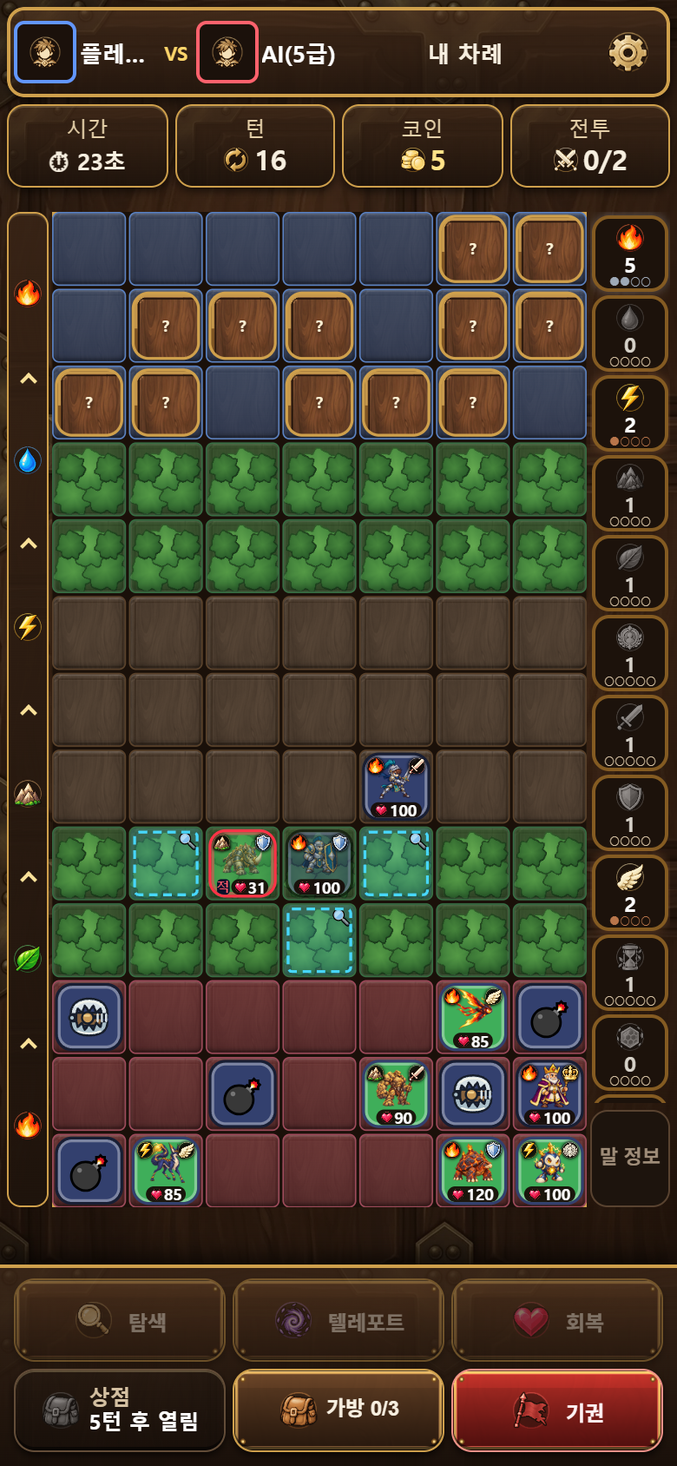
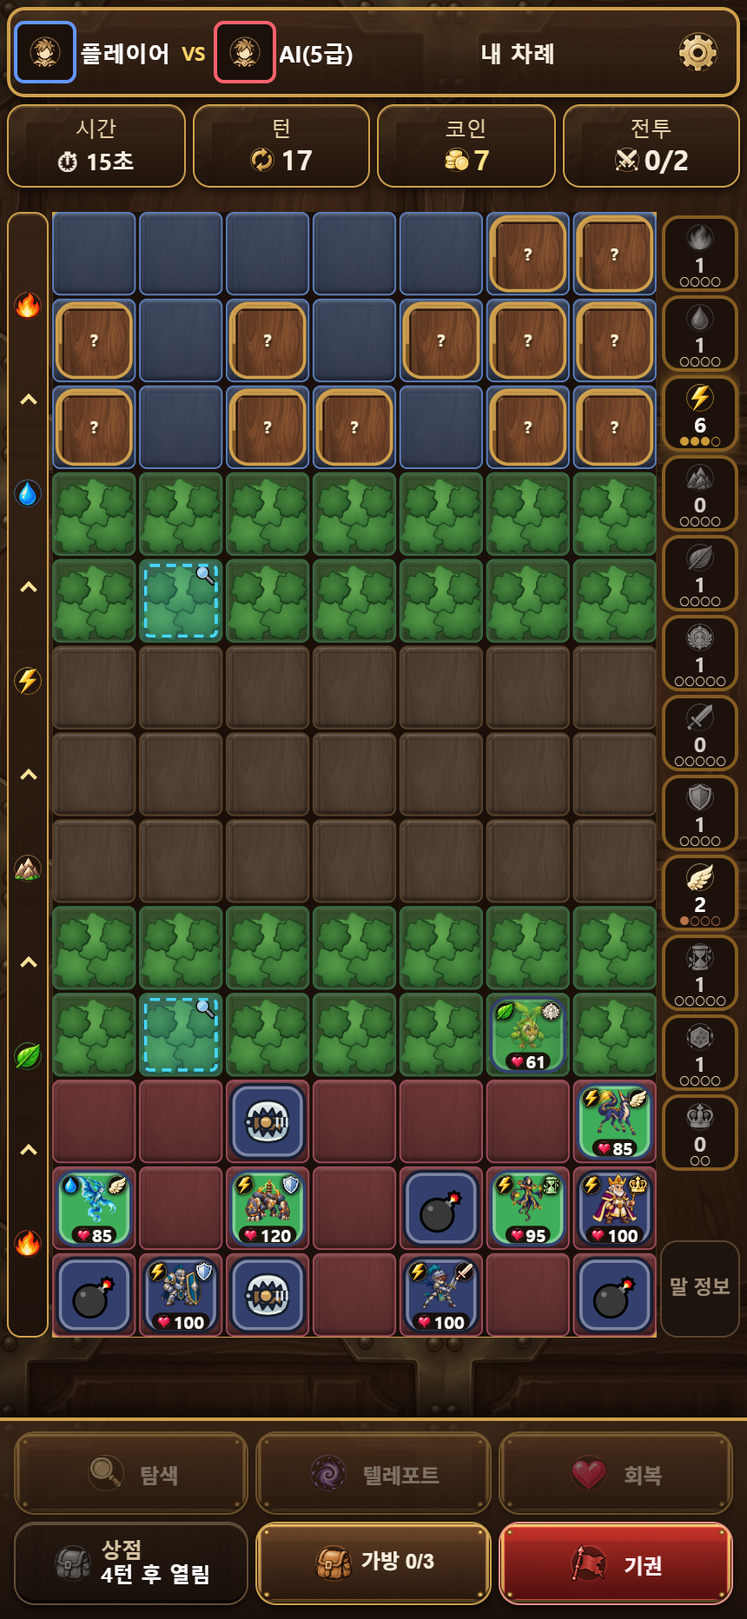
[demo] README 사진 여백·상점·시너지 프레이밍 보완 (#386)
로그인 하단과 보드 시너지 잘림을 native 촬영 범위로 보완한다.
상점은 실제 내용 끝까지 담고 촬영 조건·상태 fixture를 감사 보고에 반영한다.

diff --git a/docs/milestone/v0.4.16/issues/386/Mars/report.md b/docs/milestone/v0.4.16/issues/386/Mars/report.md
@@ -1,77 +1,102 @@
-# #386 v0.4.16 README 플레이 사진 8장 — Mars 촬영 감사 보고
+# #386 v0.4.16 README 플레이 사진 8장 — Mars 촬영·구도 보완 감사 보고
 
-- 작업: task_939638aaaef9 / ctx_a1dd55003b4d · 2026-10-28 (KST)
-- 실행: Mars, Claude Code `claude-opus-5-5` · effort high · `--dangerously-skip-permissions` (argv 실측, PID 33548) · Ponytail full. 코디네이터 GO 수신 뒤 촬영.
-- 범위: 현재 UI 실제 브라우저 캡처 8장과 이 보고서만 작성했다. README 본문, Git 쓰기, GitHub·Notion·Render 쓰기는 하지 않았다. README QA 판정은 하지 않는다.
+- 1차 촬영: task_939638aaaef9 / ctx_a1dd55003b4d · 2026-10-28 (KST). 원문은 artifact `Mars-Report.original.md`와 커밋 `431d9cb`에 보존돼 있다.
+- 구도 보완(이 보고서의 현재 상태): task_93050522f0f0 / ctx_511ec36e01ed · 2026-10-28 (KST). Saturn 구도 REVISE 3건(01 하단 비네트 · 06 시너지 칩 잘림 · 05 가방 슬롯 화면 밖)을 촬영·프레이밍만으로 고쳤다.
+- 실행: Mars, Claude Code `claude-opus-5-5` · effort high · `--dangerously-skip-permissions` (argv 실측, PID 32924) · Ponytail full. 코디네이터 GO 수신 뒤 촬영했다. fixture 2건(아래 3절)은 코디네이터 응답(`Q1A Q2A`)과 05/07 짝 높이 선택(`A`)을 받은 뒤 진행했다.
+- 범위: PNG 6장(01·02·05·06·07·08)과 이 보고서만 바꿨다. 03·04 PNG, README 본문, milestone README, 제품 demo/server/tools/test/config/자산/CSS/DOM, 검증 도구, Git, GitHub·Notion·Render는 건드리지 않았다. README QA 판정은 하지 않는다.
 
 ## 1. 결과물
 
-8장 모두 390×844 CSS · DPR 2 전체 뷰포트(잘라내기 없음)라서 출력은 모두 780×1688 px이다. README의 네 쌍은 높이가 같다.
+사진마다 해상도가 다르다. README는 두 칸 표에서 같은 너비로 보여 주므로 표시 높이는 가로세로 비율이 정한다.
 
-| README 위치 | 파일 | px | bytes | SHA-256 |
-|---|---|---|---|---|
[8 lines of base64/hex data omitted]
+| README 위치 | 파일 | px | bytes | SHA-256 | 상태 |
+|---|---|---|---|---|---|
[8 lines of base64/hex data omitted]
 
-원본 probe는 `C:/Users/pc_77/orca/artifacts/Digit-Duel/readme-v0416-branch-alignment-20261028/Mars/shots/`에 있다. 납품본은 p01a·p02a·p03b·p04a·p05c·p06a·p07c·p08a를 바이트 그대로 복사했다. 버린 probe: p00(계정 꺼짐 상태 타이틀), p03a(핑 측정 불가), p04a 1차(타이틀로 복귀), p05a·p05b(구매 전·토스트), p06 없음, p07a·p07b(가방 행 잘림·스크롤 정렬 전), p08pre(전투 시작 연출 중).
+**짝 높이**
+
+| 짝 | 크기 | 표시 높이 |
+|---|---|---|
+| 01 로그인 / 02 로비 | 둘 다 780×1308 | 같다 |
+| 03 방 목록 / 04 대기실 | 둘 다 780×1688 (1차 그대로) | 같다 |
+| 06 전략 보드 / 08 속성 전투 | 둘 다 860×1864 | 같다 |
+| 05 시작 상점 / 07 턴 상점 | 780×2908 / 780×2838 | **다르다.** 05가 2.47% 더 길다 |
+
+05/07의 높이 차이는 의도한 선택이다. 두 상점은 실제 스크롤 내용 끝까지 담았다. 합법 상태로는 05 전체 높이가 52 CSS px 단위(1402·1454·1506 …)로만 바뀌어 07의 1419와 같아질 수 없다. 코디네이터가 A안을 골랐다. 실제 상점 내용과 구매 상태를 지키고, 높이를 맞추려고 내용을 자르거나 여백을 붙이지 않는다. 코디네이터에 따르면 `README_RELEASE_STYLE`이 같은 높이를 요구하는 짝은 로그인/로비와 보드/전투이고, 상점 짝의 같은 높이는 PD의 추가 목표였다(Mars가 그 문서를 직접 읽어 확인한 것은 아니다).
+
+원판과 probe는 `C:/Users/pc_77/orca/artifacts/Digit-Duel/readme-v0416-branch-alignment-20261028/Mars-Framing/shots/`에 있다. 납품본은 그 원판을 바이트 그대로 복사했다: 01=`p01-clip654` · 02=`p02-654b` · 05=`p05-full` · 06=`p06-430` · 07=`p07-full` · 08=`p08-430`. 1차 원판(`Mars/shots/`)과 1차 helper는 덮지 않았다.
 
 ## 2. 원본·환경
 
-- 코드: 작업 공간 `doc-386-v0416-readme`, HEAD `a1fa420bbd5b39b7d179233297b9ef78ef0b889b` (`doc/386-v0416-readme`, 세션 시작 시 clean).
-- 페이지: 수정하지 않은 `demo/`. 01~04는 Mars 소유 정적 서버(127.0.0.1 임의 포트, 읽기 전용, `/api/*`=503 `E_ACCOUNTS_DISABLED`, DB 없음)에서, 05~08은 `file:///…/demo/index.html` 오프라인으로 열었다.
-- 브라우저: Google Chrome `Chrome/155.0.8059.85`, headless=new, UA `HeadlessChrome/155.0.0.0`. 격리 프로필(종료 후 삭제), `--hide-scrollbars --force-color-profile=srgb --lang=ko-KR`. CDP Emulation 390×844 · DPR 2 · mobile. Node v24.16.0.
-- 도구(저장소 밖, 새 artifact 폴더만): `driver.js`(v0.4.15 드라이버 + #335 harness의 정적 서버·가짜 WebSocket prelude), `cli.js`(v0.4.15 복사본에서 포트·nav·errors만 변경), `auto.js`·`fight.js`·`bottomcheck.js`(v0.4.15 그대로 복사), `blobcheck.js`(신규). 과거 helper와 `tools/media/readme_media_capture.js`는 수정하지 않았다.
-- 제품 데모 blob(index 기준 앞 12자리): index.html `95614ee79479` · core.js `55b027528c5b` · ui.js `bceabb128c36` · ui-overlays.js `dcd5b357c9c7` · lobby.js `43a4a2404630` · network.js `ff0a878416a5` · account.js `df88316b96bc` · data.js `168f0f759344` · game.css `337acbdee547` · argon.css `34909e2a2d7f` · cohesion-pilot.css `42cbd6a66ac9` · fx.css `3cc2c9415250`.
+- 코드: 작업 공간 `doc-386-v0416-readme`, HEAD `431d9cb8a8257238fc7d24b03088086004a401cf` (시작 시 clean). 제품 runtime·source·자산·설정은 `a1fa420`과 같다(PD 지시 기준).
+- 페이지: 수정하지 않은 `demo/`. 01·02는 Mars 소유 정적 서버(127.0.0.1 임의 포트, 읽기 전용, `/api/*`=503 `E_ACCOUNTS_DISABLED`, DB 없음)에서 열었다. 05~08은 `file:///…/demo/index.html` 오프라인으로 열었다.
+- 브라우저: Google Chrome `Chrome/155.0.8059.85`, headless=new, UA `HeadlessChrome/155.0.0.0`. 격리 프로필(종료 후 삭제), `--hide-scrollbars --force-color-profile=srgb --lang=ko-KR`. CDP Emulation · DPR 2 · mobile. 뷰포트는 사진마다 아래 표와 같다. Node v24.16.0.
+- 도구: 새 artifact `Mars-Framing/`에만 만들었다. `driver.js`·`cli.js`는 1차 helper 복사본이다. 포트를 9426/9427로 바꾸고 실행 중 뷰포트를 바꾸는 `/vp`를 더했다. `auto.js`는 1차 복사본에 "내 차례마다 이동 전에 보드를 찍는다"를 더했다. `fight.js`·`bottomcheck.js`·`blobcheck.js`는 그대로 복사했다. 측정용 `groups.js`·`tree.js`(읽기 전용)는 새로 만들었다. 1차 `Mars/` helper·로그·원판과 `tools/media/readme_media_capture.js`는 수정하지 않았다.
 
-## 3. 화면별 진입 경로와 fixture 경계
+## 3. 사진별 촬영 방법·범위·fixture
 
-**공통**: 실제 회원 E2E가 아니다. 서버·DB·계정·SMTP를 쓰지 않았고 외부 Production·QA 서버에 접속하지 않았다. 화면에 보이는 닉네임(루나·솔라·노을·하늘·바람·별빛·달빛)·방 이름·전적·핑 수치는 모두 가상 값이다. 이메일·사용자 ID·접속 코드·로그·DevTools·테스트 배지는 화면에 없다. `Math.random`은 고정하지 않았으므로 05~08은 같은 화면으로 재현되지 않는다.
+**공통**: 실제 회원 E2E가 아니다. 서버·DB·계정·SMTP를 쓰지 않았고 외부 Production·QA 서버에 접속하지 않았다. 닉네임 `루나`와 전적은 가상 값이다. 이메일·사용자 ID·접속 코드·로그·DevTools·테스트 배지는 화면에 없다. `Math.random`은 고정하지 않았으므로 05~08의 진열·배치는 1차와 다르다. 모든 상호작용은 CDP 실제 마우스 클릭이다. 아래에 적은 함수 호출과 상태값 하나만 예외다. 캡처는 모두 `Page.captureScreenshot`의 clip(CSS px, DPR 2)이고, 사진 위에 아무것도 합성하거나 덧붙이지 않았다.
 
-| 화면 | 진입 | fixture(제품 함수·프레임만 사용, 제품 파일 무변경) |
-|---|---|---|
-| 01 로그인 | 정적 서버 첫 화면 | DB 없는 서버는 계정 꺼짐(`AUTH.state="off"`)이라 로그인 버튼이 없다. 계정 서비스가 켜진 첫 방문 상태를 `AUTH.state="anon"; render(); acctRender()`로 재현했다. |
-| 02 메인 로비 | `UI.entered=true; render()` | 프로필은 서버 응답 모양을 제품 파서 `lobbyParseProfile({nickname:"루나", representativeMinion:"M-F2", stats:{wins:12,losses:7}, …})`로 만들고 `LOBBY.prof="ok"`. `AUTH.state`는 `anon` 그대로다(로그인 `in`과 다른 점은 프로필 요청 여부뿐이라 그려지는 화면은 같다). |
-| 03 공개 방 목록 | 제품 `lobbyRooms()` | 가짜 WebSocket에 `lobby_ready`·`lobby_rooms`(가상 방 4개 · 접속 9명) 프레임을 넣었다. 핑은 가짜 소켓이 `rtt` 요청에 35 ms 뒤 답하도록 해서 제품이 잰 값(`핑 42ms`)이다. 지연 자체는 합성 값이다. |
-| 04 방 대기실 | 새 페이지(계정 꺼짐) · 제품 `netCreatePublicRoom("초보 환영 한 판")` | 가짜 소켓에 `room_opened`, `room_state`(WAITING · 참가자 준비 완료 · 대표 M-F2/M-W1 · 핑 42/57 ms) 프레임을 넣었다. 첫 시도에서는 `anon` 상태로 열어 계정 확인 단계가 타이틀로 되돌렸다. 그래서 새 페이지에서 다시 열었다. |
-| 05 시작 상점 | `file://` 오프라인 · 로비의 싱글플레이 카드가 잠겨 있어 제품 `startMode("pve",{aiLevel:"grade5"})`를 직접 호출했다(v0.4.15와 같음). | 실제 CDP 클릭으로 돌창 거인·용암 거북·불티 정령을 샀다. 토스트가 사라진 뒤 `#screenBody.scrollTop=50`으로 맞췄다. 고정 머리 바로 아래부터 상점 6줄과 필드 3/6이 보이고, 맨 아래는 `가방 0/3` 제목에서 행 경계로 끝난다. |
-| 06 전략 보드 | 05에서 이어서 진행 | 3마리를 더 사고 실제 클릭으로 다음 단계 → 무작위 배치 → 배치 완료를 눌렀다. 이어 `auto.js`(실제 클릭)로 2~14턴 전진했다. 15턴 AI 철갑 코뿔소 전투(08)를 `fight.js`로 끝낸 뒤 16턴 내 차례 전체 화면을 찍었다. 상대 공개 말(적 · HP 31), 탐색 가능한 수풀, 시너지 열이 보인다. |
-| 08 속성 전투 | 15턴 AI의 실제 접촉 공격 | 철갑 코뿔소(땅·D 자세 `land_def/battle-d@2x.png`) 대 내 이끼 거인(풀·A 자세 `grass_sustain/battle-a@2x.png`), 라운드 1 내 차례다. 시작 연출이 끝나고(`fxLocked()=false`) 이미지가 디코드된 뒤 찍었다. |
-| 07 턴 상점 | 06에서 이어서 진행 | 16턴에 내 말이 코뿔소를 공격했다. 전투 시작을 클릭하고 `fight.js`로 끝냈다. 이어 `auto.js`로 20턴 상점까지 진행했다. 실제 클릭으로 재의 주술사★2와 화염 투사★1을 사서 가방에 넣었다. `#overlayBox.scrollTop=299`로 맞췄다. 고정 상점 머리 바로 아래 SOLD OUT 줄부터 마지막 왕·동료 속성 줄(bottom = 844 CSS)까지 보인다. |
+| 사진 | 뷰포트(CSS) | clip(CSS) | 진입·fixture | 사진 범위 |
+|---|---|---|---|---|
+| 01 로그인 | 390×844 | x0 y0 390×654 | 1차와 같다. 계정 서비스가 켜진 첫 방문을 `AUTH.state="anon"; render(); acctRender()`로 재현했다. | 타이틀 묶음(문장 방패·`Digit Duel` 로고·미니 보드·`로그인`·`Google 로그인 — 추후 공개`)이 모두 들어 있다. 마지막 UI인 Google 버튼은 y577..625에서 끝나고, 사진은 그 아래 배경 29px에서 끝난다. Saturn이 지적한 y654..844(사진 px 1308..1688)의 비네트는 사진 밖으로 나갔다. |
+| 02 메인 로비 | **390×654** | 전체 뷰포트 | 1차와 같다. `UI.entered=true; render()` 뒤 `LOBBY.profile=lobbyParseProfile({nickname:"루나",representativeMinion:"M-F2",stats:{wins:12,losses:7}}); LOBBY.prof="ok"; render()`. | 짧은 뷰포트에 맞춘 제품 자체 레이아웃이다. 스크롤 없음(scrollHeight 654 = innerHeight). 프로필·도움말/설정/나가기·재화 2칸·미션/하루에 한 판·대표 화염 투사와 이름판·좌우 버튼·멀티/싱글플레이·하단 4탭이 모두 온전하다. 마지막 버튼(하단 탭)은 y644에서 끝난다. 이 높이에서는 대표 하수인의 불꽃 위쪽이 미션 줄 뒤로 겹친다. 이것도 실제 렌더다. |
+| 06 전략 보드 | **430×932** | 전체 뷰포트 | 새 PVE(`startMode("pve",{aiLevel:"grade5"})`)를 열었다. 시작 상점 6마리 구매 → 다음 단계 → 무작위 배치 → 배치 완료를 실제 클릭으로 진행했다. `auto.js`가 1~15턴을 실제 이동으로 진행했고, 16턴 AI 공격 전투(08)는 `fight.js`로 끝냈다. 사진은 17턴 내 차례다. 차례 배너가 사라지고 `fxLocked()=false`인 뒤에 찍었다. | 전체 7×13 보드(칸 91개, 마지막 칸 아래 y770 = boardWrap 아래 끝), 머리·시간/턴/코인/전투 HUD, 왼쪽 속성 열, 오른쪽 시너지 열, 하단 조작 6개가 모두 들어 있다. |
+| 08 속성 전투 | **430×932** | 전체 뷰포트 | 06과 같은 판이다. 16턴에 AI 고대 골렘(땅)이 내 새싹 파수꾼(풀)과 실제로 접촉해 전투가 시작됐다. 라운드 1 내 차례이고, 시작 연출이 끝난(`fxLocked()=false`) 뒤 찍었다. | 전투 창(y0..688): 머리, `나의 턴!`, 라운드·타이머, 스텟·속성 버튼, 두 좌석과 능력치 카드, 안내문, `싸우기·가방·포획·도망가기` 4개. **Seat D**(상대 전측면) = `land_sustain/battle-d@2x.png`, **Seat A**(내 쪽 후측면) = `grass_std/battle-a@2x.png`. B/C 뷰는 계약에 없다. 그 아래는 제품 모달 배경에 어둡게 깔린 보드다(1차 08과 같은 구성). |
+| 05 시작 상점 | **390×1454** | 전체 뷰포트 | 새 PVE를 열고 실제 클릭으로 3마리(철갑 코뿔소·용암 거북·이끼 거인)를 샀다. 1454는 같은 상태를 390×844에서 연 `#screenBody.scrollHeight`(실제 스크롤 내용 전체)다. 이 뷰포트에서 scrollHeight = clientHeight = 1454, scrollTop 0이다. | 머리+단계 표시(y0..162), 하수인 구매 6줄(168..579), 필드 3/6(591..857), **가방 0/3 슬롯 3칸(869..987)**, 왕·동료 속성 3줄(993..1186), 아이템 8칸(1202..1446). 실제 내용 끝(shopSheet 1446 + 아래 padding 8)에서 끝난다. 부분 스크롤 사진이 아니다. |
+| 07 턴 상점 | **390×1419** | 전체 뷰포트 | **상태 fixture(명시)**: 06/08과 다른 새 PVE 판이다. 시작 상점 6마리 구매·배치를 실제 클릭으로 했다. 첫 내 차례에 `S.turnCount=19` 한 값만 넣었다. 이어 실제 클릭으로 말 하나를 옮겼다(11,1→10,1). 그러자 제품의 `endTurn`이 20턴을 만들었고, `ecoShopOpenState`가 보너스 +2와 정기 상점을 열었다. 상점에서 실제 클릭으로 가시 덩굴을 누르자 제품의 승급 확인이 떴다. 이것은 `취소`했다. 이어 전자기 술사·철갑 코뿔소를 사서 가방에 넣었다. 1454와 같은 방법으로, 390×844에서 잰 `#overlayBox.scrollHeight` = 1419를 뷰포트로 썼다. | 머리·타이머·완료(y0..104), 하수인 구매 6줄(110..521), 필드 6/6(559..759), 가방 2/3(797..944), 왕·동료 속성(950..1143), 아이템 8칸(1185..1403). 실제 내용 끝(shopSheet 1411 + 8)에서 끝난다. fixture 때문에 실제 19턴 전투를 거치지 않았다. 그래서 필드 하수인 HP가 모두 가득이다. |
 
-## 4. 검사
+**버린 probe**(모두 `Mars-Framing/shots/`):
+- `p01-844`: 01 전체뷰 재현(하단 비네트 그대로).
+- `p01-654`: 390×654 네이티브 타이틀. 제품이 화면 가운데로 다시 배치해 아래에 약 124px 어두운 바닥이 다시 생겨서 버렸다.
+- `p02-844`: 02 fixture 재현. 1차 02와 SHA까지 같다(`3692013c…`).
+- `p02-844-probe`: 프로필이 늦게 적용돼 게스트로 찍힌 사진.
+- `p02-654`: 첫 654 촬영. 납품본 `p02-654b`는 오류 기록을 남기려고 새 세션에서 다시 찍은 것이다. 두 장은 픽셀 크기가 같고 애니메이션 때문에 바이트만 다르다.
+- `b430`: 2턴 rail 확인용.
+- `board-t1…t15`: `auto.js`가 차례마다 찍은 보드. t15에는 `플레이어 턴 15` 배너가 HUD를 가린다.
+- `p07-alt-lead1146`: 05/07 같은 높이 C안 후보. 채택하지 않았다.
 
-- 페이지 예외·console error/warning: 01~03 세션, 04 경로 재실행 세션, 05~08 오프라인 세션 모두 0건이다(`errors-*.json`).
-- 자산 로드 오류: 0건이다. 예외로 브라우저가 자동 요청한 `/favicon.ico`가 404였다. 데모에는 favicon이 없고 제품 자산도 아니다. 정적 서버의 404는 이것뿐이다. `/api/*` 503은 DB 없는 표면에서 의도한 응답이다.
-- 이미지: 촬영 직전 보이는 `<img>`가 모두 `complete && naturalWidth>0`인지 확인했다. 로비 대표는 `argon-cohesion-pilot/minions/fire_atk/portrait.webp`(512), 방 목록은 `icon@2x.png` 6종(96), 대기실은 `portrait.webp` 2종(512), 전투는 `battle-a@2x`·`battle-d@2x`(256)다. 테이블탑 배경(타이틀 아치·로비·선술집·나무 판)은 화면마다 렌더됐다.
-- 수평 넘침: `documentElement.scrollWidth - innerWidth` = 01~08 모두 0이다.
-- 하단 띠(`bottomcheck.js`, 마지막 80 px의 서로 다른 색 수): 02:2868 · 03:1442 · 04:1902 · 05:2418 · 06:3766 · 07:7314 · 08:780은 OK다. **01:18은 CHECK**다. 아래 5절 1번을 보라.
+## 4. Saturn 지적 3건의 해결 근거
 
-## 5. 문제·한계 (판정 아님, Mercury 검토용)
+1. **01 하단 비네트**: 사진이 y0..654 CSS(780×1308 px)로 끝난다. Saturn이 지적한 1308..1688 px 구간은 사진에 없다. 마지막 UI(y625)와 사진 끝 사이는 29px다. 하단 80px의 서로 다른 색은 1차 18가지에서 27919가지로 늘었다. 02는 네이티브 390×654로 같은 780×1308이며, 모든 로비 묶음이 온전하다.
+2. **06 시너지 칩 잘림**: 1차 390×844에서는 `synRail` scrollHeight/clientHeight가 554/513이었다. 41px이 넘쳐 마지막 칸이 잘렸다. 430×932에서는 588/588로 넘침이 없고, 12칸이 모두 `말 정보` 위에 온전히 보인다. 390 너비에서는 보드와 rail 높이가 너비에 묶여 높이만 늘려도 해결되지 않는다. 그래서 너비 430을 골랐다. 08도 같은 430×932로 다시 찍어 짝 크기를 맞췄다.
+3. **05 가방 슬롯 화면 밖**: 시작 상점 전체 스크롤 내용(1454)을 그 높이의 네이티브 뷰포트에 담았다. 가방 0/3의 빈 슬롯 3칸(869..987)과 그 아래 왕·동료 속성·아이템까지 실제 내용 끝에서 끝난다. 07도 같은 방식(1419)으로 다시 찍었다.
 
-1. **01 하단이 어둡다.** 타이틀 UI는 화면 가운데에 있고, 아래 약 190 CSS px는 제품 타이틀 배경의 어두운 비네트다(색 18가지). 덧붙인 빈 공간이 아니라 실제 렌더다. 잘라내면 02와 높이가 달라져 그대로 두었다. v0.4.13 승인본 01도 같은 전체 뷰포트 구성이었다.
-2. **06 시너지 열의 맨 아래 칸이 일부 가려진다.** 제품 자체 스크롤 영역(`synRail` 554/513)이라 `말 정보` 위에서 마지막 칸이 일부만 보인다.
-3. **05 맨 아래에 `가방 0/3` 제목만 보인다.** 가방 칸은 화면 아래에 있다. 상점 6줄과 필드 전체를 보이게 하면서 위아래가 행 경계에 맞는 위치는 이 하나뿐이었다.
-4. **제품 표시 그대로인 부분**: 02 `싱글플레이` 버튼 글자가 두 줄로 나뉜다. 게임 화면 머리의 `플레이어`가 `플레…`로 줄어 보인다. 타이머는 촬영 순간 값(05 98초 · 06 23초 · 07 128초 · 08 52초)이다.
-5. **전투 Seat A/D**: A는 내 쪽 후측면, D는 상대 쪽 전측면을 가리키는 두 좌석의 뷰다. 정지 화면에는 이 두 뷰를 담았다. 33종 전체 FX·전체 종 재검사는 범위 밖이라 실행하지 않았다. (PD 문서 정정: 원문에서 A-D를 네 자세로 읽어 “B·C는 담기지 않았다”고 적은 문구는 삭제했다. B/C 뷰는 이번 계약에 없다. 촬영 원본·픽셀은 변경하지 않았다.)
-6. **Git 읽기 명령 사용**: 세션 시작 때 기준 확인을 위해 읽기 전용 `git rev-parse HEAD`·`git branch -vv`를 1회씩 실행했다. Worker Git 읽기 금지 메모와 어긋나므로 기록한다. 이후 blob 대조는 Git 명령 없이 `.git` index 파일을 직접 읽었다.
+## 5. 검사
 
-## 6. 제품 파일 불변 확인
+- 페이지 예외·console error/warning: 0건이다. 확인한 세션은 01 세션, 02 재촬영 세션, 06/08 오프라인 세션, 07 세션, 05 세션이다(각 촬영 직후 `/errors`).
+- 자산 로드 오류: 0건이다(CDP `loadingFailed`·HTTP ≥400·정적 서버 404 모두 비어 있음).
+- 이미지: 촬영 직전 보이는 `<img>`가 모두 `complete && naturalWidth>0`이었다. 02 대표는 `portrait.webp`(512)다. 08 전투는 `battle-d@2x`·`battle-a@2x`(256)다.
+- 가로 넘침: `documentElement.scrollWidth`가 innerWidth와 같았다(390 또는 430). 6장 모두 해당한다.
+- 아래 빈 여백·잘림(`bottomcheck.js`, 마지막 80px의 서로 다른 색 수): 01:27919 · 02:2896 · 03:1442 · 04:1902 · 05:2085 · 06:3902 · 07:686 · 08:788. 모두 OK다. 05·07은 실제 내용 끝(아이템 카드 줄 + 8px)에서 끝난다. 01·02는 마지막 UI 아래 각각 29px·10px의 배경뿐이다.
+- 1차 대비: 03·04는 SHA가 1차와 같다. 01·02·05·06·07·08만 바뀌었다(아래 6절).
 
-`blobcheck.js`로 worktree `.git/worktrees/doc-386-v0416-readme/index`(v2, 2321개 항목)를 직접 읽었다. 각 작업 파일의 blob SHA-1을 index의 기준 blob과 비교했다. 세션 시작 상태가 clean이라 index는 HEAD `a1fa420`과 같다고 본다(추론).
+## 6. 제품·기존 이미지 불변 확인
 
-- 바이트 동일: 1542개.
-- CRLF→LF 정규화 뒤 동일: 778개(이 중 demo·server·tools·test 아래 165개). Windows checkout의 줄 끝 변환이며 내용 차이는 아니다.
-- 다름: `README.md` 1개. Mercury가 동시에 편집 중이며 GO 지시에 따라 제외했다. `docs/milestone/v0.4.16/README.md`도 같은 이유로 대조에서 제외했다.
+Git 명령 없이 `blobcheck.js`(1차와 같은 코드)로 worktree index(`…/.git/worktrees/doc-386-v0416-readme/index`, v2, 2331개 항목)를 직접 읽었다. 각 작업 파일의 blob SHA-1을 비교했다. 시작 상태가 clean이었으므로 index는 HEAD `431d9cb`와 같다고 본다(추론).
+
+- 바이트 동일: 1546개.
+- CRLF→LF 정규화 뒤 동일: 779개. demo·server·tools·test 아래 165개를 포함한다. Windows checkout의 줄 끝 변환이다.
+- 다름: 정확히 6개다. `docs/screenshots/v0.4.16/` 01·02·05·06·07·08 PNG뿐이다. README.md·milestone README·03/04·옛 버전 이미지는 다르지 않다. 이 보고서는 검사 뒤에 고쳤다.
 - 없음: 0개.
-- 기존 `docs/screenshots/` 아래 index 항목 30개 중 PNG는 모두 바이트 동일이다. 텍스트 3개(`tutorial-overview.svg`, v0.4.14·v0.4.15 `capture-manifest.json`)는 줄 끝만 다르다. 옛 이미지는 1바이트도 바꾸지 않았다.
 
-## 7. 정리
+## 7. 문제·한계 (판정 아님, Mercury·Saturn 검토용)
 
-- 내 프로세스(드라이버 PID 28416·22584·35412, Chrome PID 26076·24252·8052)는 `/quit`로 종료했다. 리스너 9396/9397과 임의 정적 포트는 LISTEN 0이고 격리 프로필은 삭제했다.
-- 다른 프로세스, root·#335 checkout, E: 납품·리뷰 자료는 건드리지 않았다. 패키지 설치·배포·서버/DB 기동은 하지 않았다.
+1. **05/07 높이 차이 2.47%**: 1절에서 설명했다. 코디네이터 A안 결정이다.
+2. **07 fixture**: `S.turnCount=19` 값 하나와 실제 이동 1회로 제품의 정기 상점 경로를 탔다. 실제 20턴 대국이 아니라서 필드 HP가 모두 가득이다. 판 위 말 위치도 시작 배치 근처다(사진에는 보드가 없다).
+3. **06/08은 1차와 다른 판**이다. 06은 전투 뒤 17턴 보드라서 상대 공개 말이 보이지 않는다. 그 대신 탐색 가능한 수풀 두 칸이 보인다.
+4. **제품 표시 그대로인 부분**: 게임 머리의 `플레이어`가 `플레…`로 줄어 보인다(05·07·08). 02 `싱글플레이` 버튼 글자가 두 줄로 나뉜다. 02의 대표 하수인 불꽃이 미션 줄 뒤로 겹친다. 타이머는 촬영 순간 값이다(05 73초 · 06 15초 · 07 58초 · 08 56초).
+5. **Git 읽기 명령 사용**: 시작 확인 때 읽기 전용 `git rev-parse HEAD`·`git status --short`를 1회씩 실행했다. Worker Git 읽기 금지 메모와 어긋나므로 기록한다. 그 뒤에는 Git 명령을 쓰지 않았다.
+6. 기존 `readme_media_capture.js verify`는 #105 튜토리얼 10장을 요구한다. 그래서 현재 8장 갤러리에는 legacy FAIL이 나온다. 범위 밖이라 실행·수정하지 않았다.
+
+## 8. 정리
+
+- 내 프로세스(드라이버 PID 32692, Chrome PID 35992)는 `/quit`로 종료했다. 남은 프로세스는 없다. 포트 9426/9427과 임의 정적 포트는 LISTEN 0이다. 격리 프로필 `Mars-Framing/profiles`는 삭제했다.
+- 다른 프로세스, root·#335 checkout, E: 납품·리뷰 자료, 1차 `Mars/` artifact는 건드리지 않았다. 패키지 설치·배포·서버/DB 기동은 하지 않았다.
